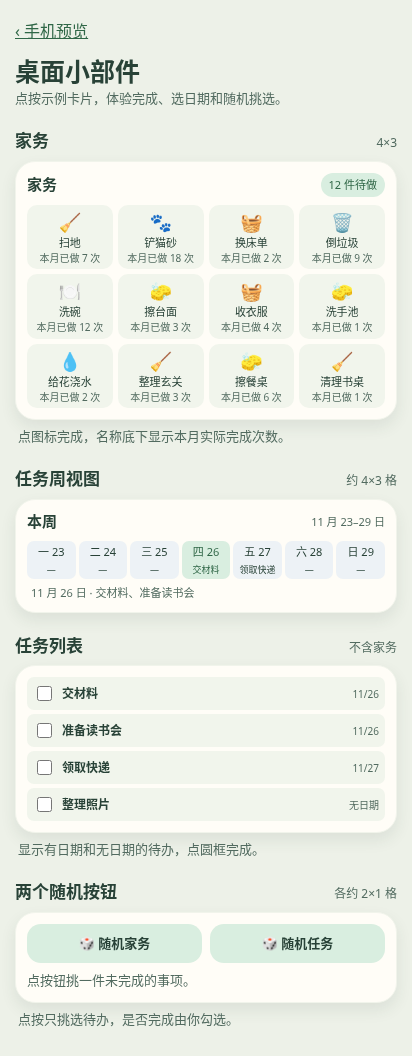
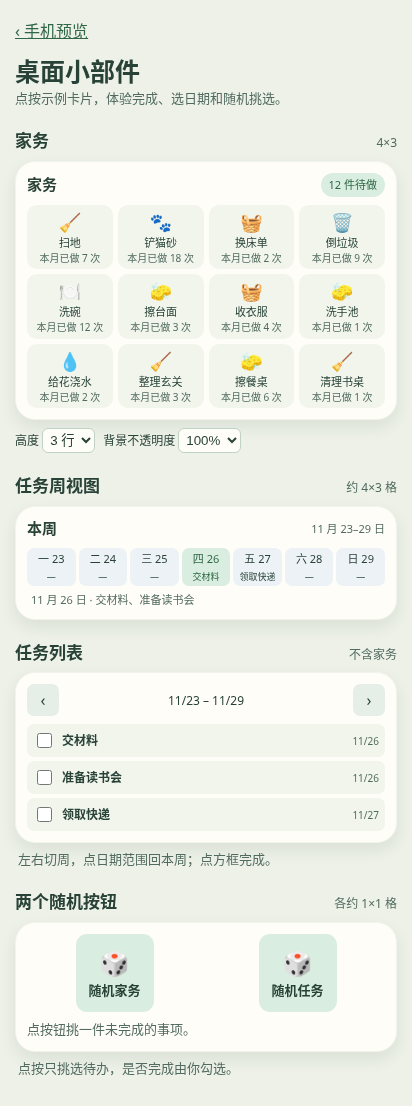
Preview aligned task controls and customizable widgets

diff --git a/widget-styles-draft.html b/widget-styles-draft.html
@@ -13,6 +13,8 @@
 .week{display:grid;grid-template-columns:repeat(7,minmax(0,1fr));gap:3px}.week button{min-width:0;border-radius:7px;background:#edf2f6;padding:3px 2px;font-size:11px;text-align:center}.week button[aria-pressed=true]{background:var(--mint);color:var(--green)}.week button span{display:block;overflow:hidden;white-space:nowrap;text-overflow:ellipsis}.week button span+span{font-size:9px;margin-top:3px}
 .rows{display:grid;gap:4px}.row{display:flex;align-items:center;gap:7px;padding:3px 6px;border-radius:7px;background:#f1f5ec;min-height:33px;font-size:12px}.row strong{flex:1;font-weight:600}.row input{accent-color:var(--green);height:15px;width:15px}.row small{color:var(--soft)}.row.wide{justify-content:space-between}.summary{padding:6px 4px 0;color:var(--soft);font-size:11px}
 .buttons{display:grid;grid-template-columns:repeat(2,minmax(0,1fr));gap:8px}.random{border-radius:14px;background:var(--mint);padding:10px 6px;font-size:13px;font-weight:650}.random-result{margin-top:8px;min-height:20px}.line{margin-top:7px}
+
+.widget-settings{display:flex;gap:8px;flex-wrap:wrap;padding-top:8px;font-size:12px}.widget-settings select{color:inherit;background:#fffdf7;padding:3px;border:1px solid #c0d2c5;border-radius:6px}.chores-surface{background:rgba(255,253,247,var(--opacity,1))}.chores-surface .tile{background:rgba(241,245,236,var(--opacity,1))}.random{width:78px;aspect-ratio:1;padding:6px;border-radius:11px;justify-self:center}.random span{display:block;font-size:24px}.week-nav{width:32px;height:32px;background:#e6efe7;border-radius:7px}.bar .range{font-size:12px}
 </style>
 </head>
 <body>
@@ -22,8 +24,11 @@
 <p>点按示例卡片，体验完成、选日期和随机挑选。</p>
 <article aria-label="家务小部件">
  <div class="option"><h2>家务</h2><span class="size">4×3</span></div>
- <section class="sample"><div class="bar"><strong>家务</strong><span class="pill" id="choreCount"></span></div><div class="tiles" id="chores"></div></section>
- <p class="caption">点图标完成，名称底下显示本月实际完成次数。</p>
+ <section class="sample chores-surface" id="choresSurface"><div class="bar"><strong>家务</strong><span class="pill" id="choreCount"></span></div><div class="tiles" id="chores"></div></section>
+ <div class="widget-settings">
+  <label>高度 <select id="choreRows"><option value="1">1 行</option><option value="2">2 行</option><option selected value="3">3 行</option></select></label>
+  <label>背景不透明度 <select id="choreOpacity"><option>25%</option><option>50%</option><option>75%</option><option selected>100%</option></select></label>
+ </div>
 </article>
 <article aria-label="任务周视图">
  <div class="option"><h2>任务周视图</h2><span class="size">约 4×3 格</span></div>
@@ -31,12 +36,14 @@
 </article>
 <article aria-label="任务列表">
  <div class="option"><h2>任务列表</h2><span class="size">不含家务</span></div>
- <section class="sample"><div class="rows" id="tasks"></div></section>
- <p class="caption">显示有日期和无日期的待办，点圆框完成。</p>
+ <section class="sample">
+ <div class="bar"><button class="week-nav" id="taskPrev" aria-label="任务列表上一周">‹</button><button id="taskRange" class="range" aria-label="回到本周"></button><button class="week-nav" id="taskNext" aria-label="任务列表下一周">›</button></div>
+ <div class="rows" id="tasks"></div></section>
+ <p class="caption">左右切周，点日期范围回本周；点方框完成。</p>
 </article>
 <article aria-label="随机按钮">
- <div class="option"><h2>两个随机按钮</h2><span class="size">各约 2×1 格</span></div>
- <section class="sample"><div class="buttons"><button class="random" id="houseworkPick">🎲 随机家务</button><button class="random" id="taskPick">🎲 随机任务</button></div><p class="random-result" id="result" aria-live="polite">点按钮挑一件未完成的事项。</p></section>
+ <div class="option"><h2>两个随机按钮</h2><span class="size">各约 1×1 格</span></div>
+ <section class="sample"><div class="buttons"><button class="random" id="houseworkPick"><span>🎲</span>随机家务</button><button class="random" id="taskPick"><span>🎲</span>随机任务</button></div><p class="random-result" id="result" aria-live="polite">点按钮挑一件未完成的事项。</p></section>
  <p class="caption">点按只挑选待办，是否完成由你勾选。</p>
 </article>
 </main>
@@ -48,14 +55,14 @@ const chores=[
  ['💧','给花浇水',2],['🧹','整理玄关',3],['🧽','擦餐桌',6],['🧹','清理书桌',1]
 ].map(([icon,title,count])=>({icon,title,count,done:false}));
 const tasks=[
- {title:'交材料',date:26},{title:'准备读书会',date:26},{title:'领取快递',date:27},{title:'整理照片',date:null}
+ {title:'交材料',date:26},{title:'准备读书会',date:26},{title:'领取快递',date:27},{title:'整理照片',date:null},{title:'本周复盘',date:33}
 ];
-let selectedDay=26;
+let selectedDay=26, taskWeek=0;
 function text(tag,value){const e=document.createElement(tag);e.textContent=value;return e}
 function renderChores(){
  const pending=chores.filter(t=>!t.done);
  $('choreCount').textContent=pending.length+' 件待做';
- $('chores').replaceChildren(...pending.map(t=>{
+ $('chores').replaceChildren(...pending.slice(0,Number($('choreRows').value)*4).map(t=>{
   const card=text('button','');card.className='tile';card.setAttribute('aria-label','完成 '+t.title);
   const icon=text('span',t.icon);icon.className='icon';
   card.append(icon,text('span',t.title),text('small','本月已做 '+t.count+' 次'));
@@ -76,12 +83,15 @@ function renderWeek(){
  $('weekSummary').textContent='11 月 '+selectedDay+' 日 · '+(titles.join('、')||'没有待办');
 }
 function renderTasks(){
- const pending=tasks.filter(t=>!t.done);
+ const start=23+taskWeek*7,end=start+6;
+ const fmt=d=>{const date=new Date(2026,10,d);return (date.getMonth()+1)+'/'+date.getDate()};
+ $('taskRange').textContent=fmt(start)+' – '+fmt(end);
+ const pending=tasks.filter(t=>!t.done&&t.date!=null&&t.date>=start&&t.date<=end);
  $('tasks').replaceChildren(...pending.map(t=>{
   const row=text('label','');row.className='row';
   const input=document.createElement('input');input.type='checkbox';input.setAttribute('aria-label','完成 '+t.title);
   input.onchange=()=>{t.done=true;renderTasks();renderWeek()};
-  row.append(input,text('strong',t.title),text('small',t.date?'11/'+t.date:'无日期'));return row;
+  row.append(input,text('strong',t.title),text('small',fmt(t.date)));return row;
  }));
  if(!pending.length)$('tasks').append(text('p','暂时没有待办'));
 }
@@ -91,6 +101,9 @@ function pick(entries,empty){
 }
 $('houseworkPick').onclick=()=>pick(chores,'没有待做家务');
 $('taskPick').onclick=()=>pick(tasks,'没有待办任务');
+$('choreRows').onchange=renderChores;
+$('choreOpacity').onchange=()=>$('choresSurface').style.setProperty('--opacity',parseInt($('choreOpacity').value,10)/100);
+$('taskPrev').onclick=()=>{taskWeek--;renderTasks()};$('taskNext').onclick=()=>{taskWeek++;renderTasks()};$('taskRange').onclick=()=>{taskWeek=0;renderTasks()};
 renderChores();renderWeek();renderTasks();
 </script>
 </body>

diff --git a/mobile-calendar-draft.html b/mobile-calendar-draft.html
@@ -34,6 +34,8 @@ textarea,select{background:#fffdf9;border:1px solid #bdcabb;border-radius:12px;p
 
 .taskpage .tiles{grid-template-columns:repeat(4,minmax(0,1fr));gap:6px}.taskpage .tile{min-height:81px}.taskpage .tile strong,.taskpage .tile small{white-space:nowrap;overflow:hidden;text-overflow:ellipsis;max-width:100%}
 dialog.large-wish textarea{height:min(64dvh,calc(100dvh - 186px));min-height:140px}
+
+.tasktools{display:grid;grid-template-columns:minmax(0,1fr) auto;align-items:center;gap:6px}.tasktools .chips{display:grid;grid-template-columns:repeat(4,minmax(0,1fr));gap:4px;padding:0;overflow:visible}.tasktools .chips button{min-inline-size:0;padding:4px 2px;min-height:34px;font-size:clamp(10px,3vw,12px);text-align:center}.tasktools #taskFilter{min-height:34px;padding:4px 9px}.tasktools button,#pickTask{border-radius:8px}
 </style>
 </head>
 <body>
